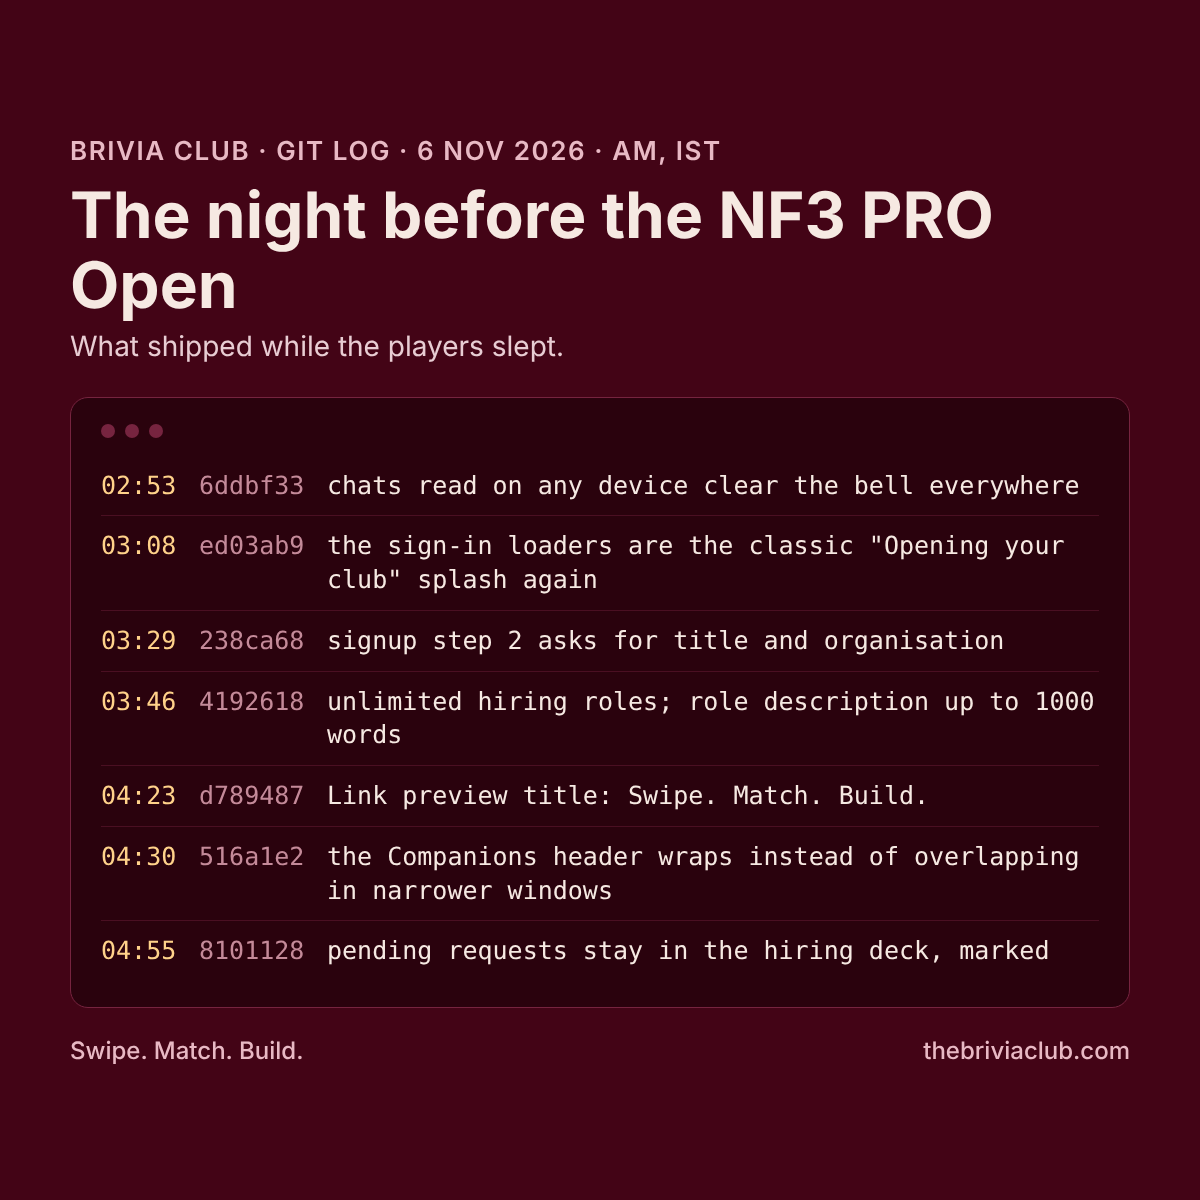
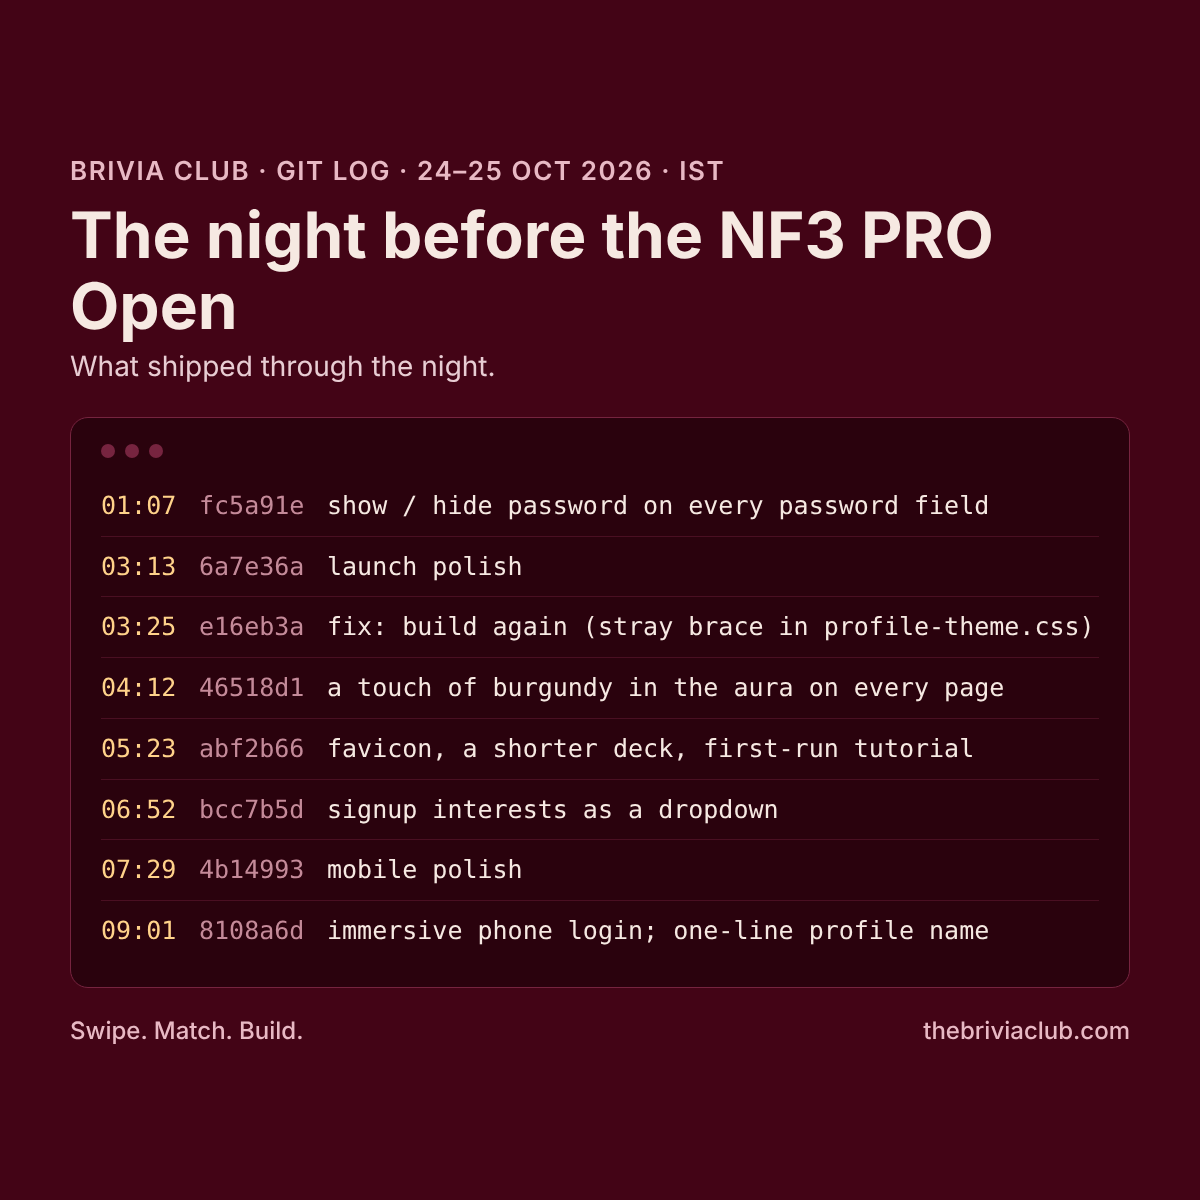
LinkedIn post 1: the real night was 24-25 Oct (tournament 25 Oct)
Claude-Session: https://claude.ai/code/session_015byVS5YmUMs9PoGgyLXXCM

Changed region(s): [[0.0617, 0.0925, 0.9558, 0.8942], [0.7708, 0.7092, 0.8942, 0.74], [0.8633, 0.555, 0.925, 0.6167]]

diff --git a/docs/linkedin/drafts/week-1.md b/docs/linkedin/drafts/week-1.md
@@ -6,24 +6,25 @@ Status: DRAFT. Nothing is scheduled. Fill every `[bracket]` with the real detail
 
 ## Post 1 · Tue 17 Nov, 8:30 AM IST · F11 Emotional cold-open · goal: likes
 
-Story source: the git log for the night of 5–6 Nov 2026 (IST), the only overnight work in the project's history.
-Confirmed by Golu (15 Nov): the tournament was the morning of 6 Nov, right after this night.
+Story source: the git log for the night of 24–25 Oct 2026 (IST). Confirmed by Golu (15 Nov): he stayed awake that
+night and the NF3 PRO Open was on 25 Oct. Yashika's launch post went up later, on 8 Nov.
 
-4:55 AM. Last fix of the night went live.
+3:25 AM. The build broke because of one stray curly brace.
 
-The 1st NF3 PRO Open Chess Tournament was a few hours away. Yashika had sponsored it for one reason: to put Brivia Club in front of 20 to 30 real testers before launch. Chess players, who notice everything.
+That was the night before the 1st NF3 PRO Open Chess Tournament. Yashika had sponsored it for one reason: to put Brivia Club in front of 20 to 30 real testers before launch. Chess players, who notice everything.
 
-So that night, my log reads like this:
+My log from that night:
 
-2:53 AM: read a chat on your phone, and the bell clears on your laptop too.
-3:29 AM: sign-up asks for your title and organisation, so people know who they're swiping on.
-4:23 AM: the link preview finally says "Swipe. Match. Build."
-4:30 AM: a header that overlapped on smaller screens stops overlapping.
-4:55 AM: done.
+1:07 AM: show or hide your password on every password field.
+3:13 AM: launch polish.
+3:25 AM: the build fails. One brace in one CSS file. Fixed.
+5:23 AM: a favicon, and a first-run tutorial so nobody opens the app lost.
+6:52 AM: picking your interests at sign-up becomes a simple dropdown.
+9:01 AM: a proper phone login, because that's what everyone at the tournament would use.
 
 None of it was glamorous. All of it was something a stranger would trip over in the first minute.
 
-Then the players actually used it. They found bugs we had never seen and told us what confused them. We fixed those too.
+That day the players actually used it. They found bugs we had never seen and told us what confused them. We fixed those too.
 
 I met Yashika at upGrad. She shared her vision for Brivia with me, and we made it live together. Her job is the vision. Mine is making sure it works when someone opens it for the first time.
 
@@ -33,7 +34,7 @@ P.S. Link in the first comment if you want to try it.
 
 **First comment:** thebriviaclub.com — would love your honest feedback, bugs included.
 **Tag:** Yashika (where her name appears).
-**Image:** `docs/linkedin/images/post1-night-log.png` (that night's real commits, IST), or a tournament photo.
+**Image:** `docs/linkedin/images/post1-night-log.png` (that night's real commits, IST).
 
 ---
 

diff --git a/docs/linkedin/30-day-plan.md b/docs/linkedin/30-day-plan.md
@@ -27,7 +27,7 @@ plus Community). **Cadence:** 13 posts (Tue/Wed/Thu), which leaves 2 of Publora 
 
 | # | Date | Time | Pillar | Hook | Angle (source) | Image (real) | CTA | Goal |
 |---|---|---|---|---|---|---|---|---|
-| 1 | Tue 17 Nov | 8:30 AM | Proof | F11 Emotional cold-open | The night before the NF3 PRO Open: awake all night so Yashika could demo the app; 20–30 players used it, found bugs, we fixed them (Yashika's post) | Laptop at night / tournament hall / the demo phone | Soft close + link in comment; tag Yashika | Likes |
+| 1 | Tue 17 Nov | 8:30 AM | Proof | F11 Emotional cold-open | The night of 24–25 Oct before the NF3 PRO Open (tournament 25 Oct; Yashika posted 8 Nov): awake all night so Yashika could demo the app; 20–30 players used it, found bugs, we fixed them (Yashika's post) | Laptop at night / tournament hall / the demo phone | Soft close + link in comment; tag Yashika | Likes |
 | 2 | Wed 18 Nov | 7:30 PM | Conviction | F18 False-binary dissolve | Dating apps know *where* you are, not what you care about; LinkedIn knows what you care about, not where you are. Brivia does both (VISION.md) | Two-column card you make from a screenshot | Question: "which do you use to meet people, and does it work?" | Comments |
 | 3 | Thu 19 Nov | 8:30 AM | Building in public | F7 Odd-precision | Chat felt slow; one privacy check ran per message. 384 ms → ~30 ms for the busiest member (D-264) | Screenshot of the before/after timing or the diff | "Ever found a fix this small?" | Saves |
 | 4 | Tue 24 Nov | 8:30 AM | Community | F14 Named gratitude | Thank you to the NF3 PRO organisers and the first testers; what their bug reports changed (needs names from Golu) | Tournament photo | Tag organisers + Yashika | Reposts |
